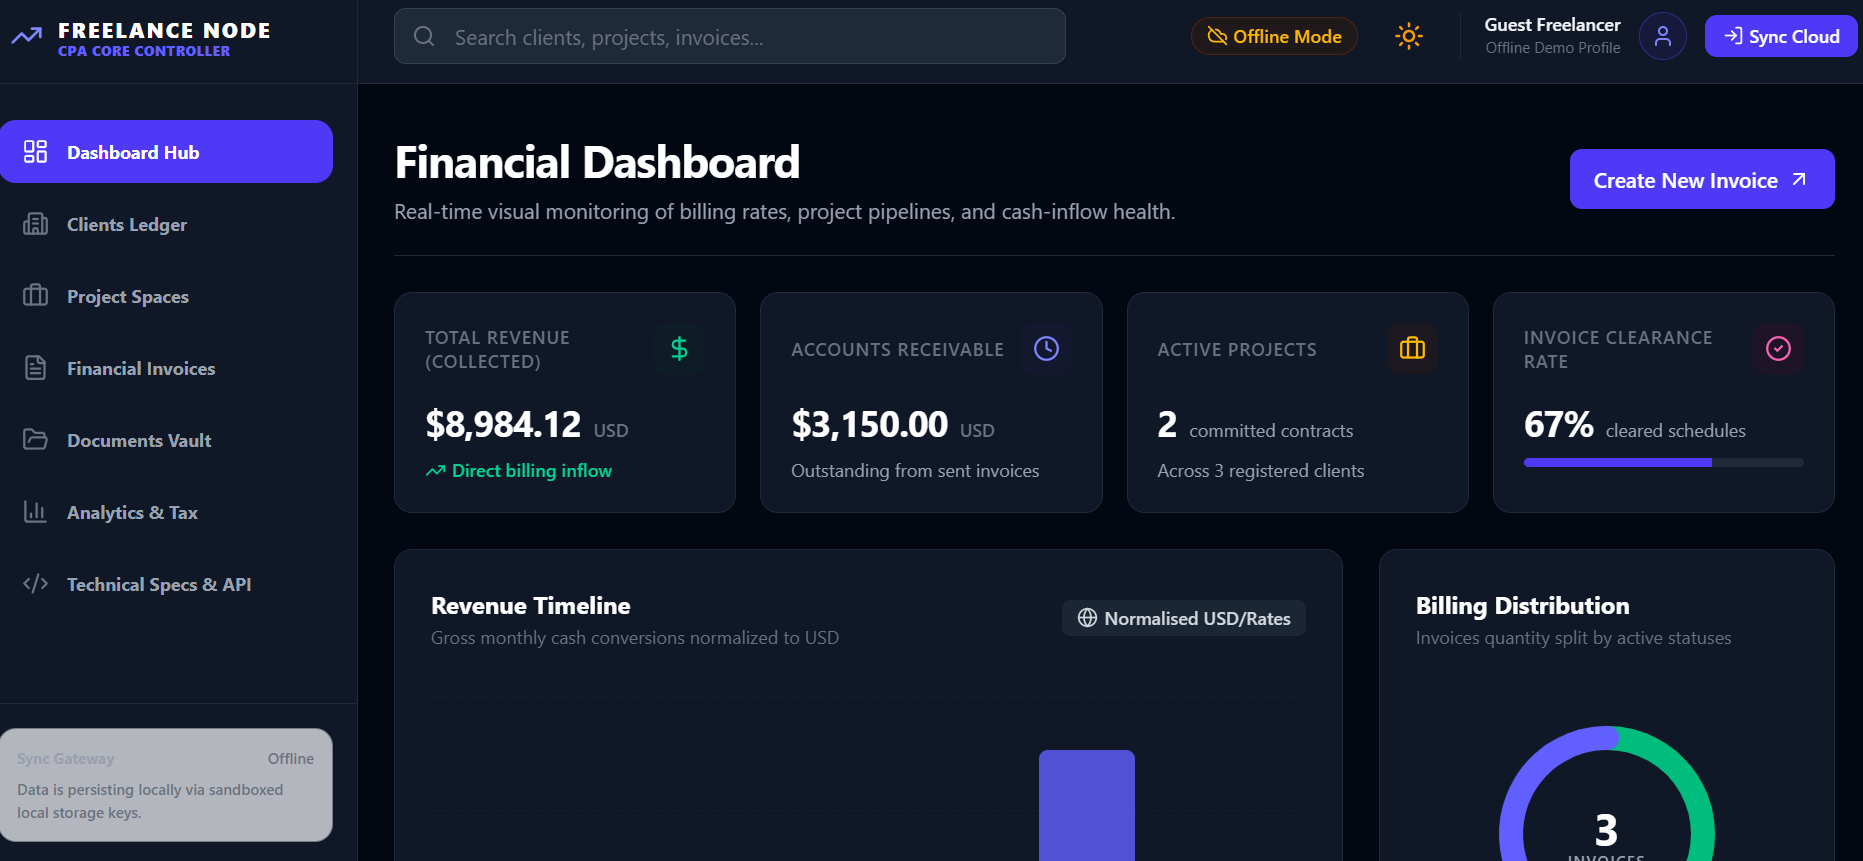
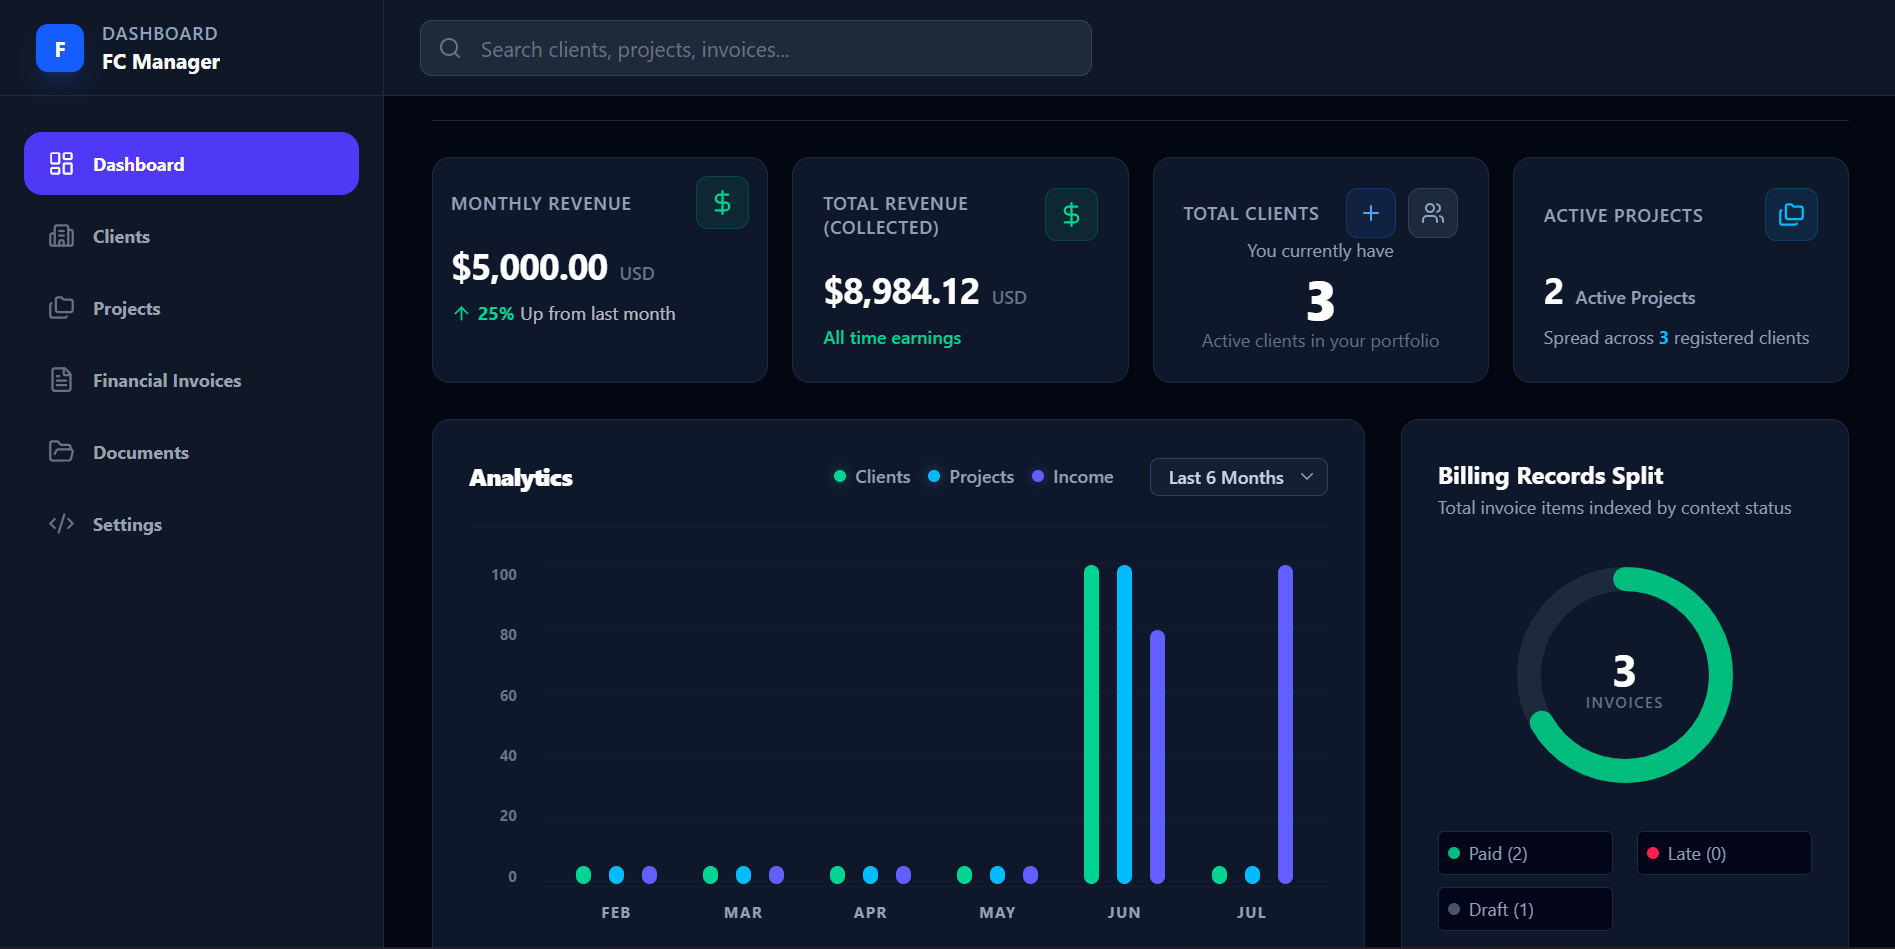
Removed redundant codes and update Client management project

diff --git a/src/data.ts b/src/data.ts
@@ -4,7 +4,6 @@ export const INITIAL_SKILLS: Skill[] = [
   {
     name: "HTML5",
     category: "language",
-    level: 95,
     unlocked: true,
     docUrl: "https://developer.mozilla.org/en-US/docs/Web/HTML",
     description: "Semantic structures, SEO optimization, and web accessibility (a11y) standards."
@@ -12,7 +11,6 @@ export const INITIAL_SKILLS: Skill[] = [
   {
     name: "CSS3 / Tailwind",
     category: "styling",
-    level: 90,
     unlocked: true,
     docUrl: "https://developer.mozilla.org/en-US/docs/Web/CSS",
     description: "Highly responsive layouts, clean Flexbox/Grid structures, variables, fluid typography, and premium micro-interactions."
@@ -20,7 +18,6 @@ export const INITIAL_SKILLS: Skill[] = [
   {
     name: "JavaScript",
     category: "language",
-    level: 85,
     unlocked: true,
     docUrl: "https://developer.mozilla.org/en-US/docs/Web/JavaScript",
     description: "Asynchronous workflows, ES6+ array manipulation, DOM modeling, closures, and modular engineering."
@@ -28,7 +25,6 @@ export const INITIAL_SKILLS: Skill[] = [
   {
     name: "React",
     category: "frontend",
-    level: 80,
     unlocked: true,
     docUrl: "https://react.dev/",
     description: "Declarative UI rendering, hooks lifecycle management, interactive local state flow, and modular components."
@@ -36,7 +32,6 @@ export const INITIAL_SKILLS: Skill[] = [
   {
     name: "TypeScript",
     category: "language",
-    level: 85,
     unlocked: true,
     docUrl: "https://www.typescriptlang.org/docs/",
     description: "Static typing, advanced interfaces, type-safe compiler checks, and robust autocompilation setups."
@@ -44,11 +39,11 @@ export const INITIAL_SKILLS: Skill[] = [
   {
     name: "Git & GitHub",
     category: "tools",
-    level: 80,
     unlocked: true,
     docUrl: "https://docs.github.com/en/get-started",
     description: "Version control branching pipelines, clean pull request reviews, and continuous Integration deployment workflows."
   },
+   /* 
   {
     name: 'Node.js',
     category: 'backend',
@@ -89,7 +84,7 @@ export const INITIAL_SKILLS: Skill[] = [
     docUrl: "https://www.freecodecamp.org/news/what-is-full-stack-development/",
     description: 'Architecting end-to-end applications by bridging frontend component layers with secure backend APIs.'
   }
-
+*/
 ];
 
 
@@ -99,7 +94,7 @@ export const PROJECTS: Project[] = [
     title: "Job Application Tracker",
     description: "This is is a polished sleek, local first app built to rescue people from spreadsheet hell during a job hunt.  Instead of jumping between messy bookmarks, notes apps, and Excel files, it gives you a clean command center to track your entire hiring lifecycle from initial submission to final offer.It saves everything directly to the browser via localStorage. That means the app is instantly ready to use without requiring a complex database setup, user accounts, or backend servers.",
 category: ["React", "TypeScript", "Tailwind CSS"],
-   tech: ["React", "TypeScript", "Vite", "Tailwind CSS", "Local Storage API", "Lucide Icons"],
+   tech: ["React", "TypeScript", "Javascript", "Vite", "Tailwind CSS", "Local Storage API", "Lucide Icons"],
     image: "/Project-images/JAJ_img.png",
     featured: true,
     typescriptReady: true,
@@ -108,16 +103,15 @@ category: ["React", "TypeScript", "Tailwind CSS"],
   },
   {
     id: "client-dashboard",
-    title: "Client Management Dashboard",
-    description: "A professional business operations manager tracking corporate client listings, projects, and revenue metrics.",
-    detailedDescription: "An administrative intelligence hub built to monitor high-level freelance workflows. Integrates core state tracking for managing ongoing customer accounts, open milestones, dynamic invoicing structures, payment collection records, and high-visibility analytics panels.",
-    category: ["React", "JavaScript"],
-    tech: ["React 19", "Tailwind CSS v4", "Lucide React Icons", "Reactive State Management"],
+    title: "Freelance Client Management",
+    description: "This Client Managment is a local first productivity and financial automation dashboard built to help freelancers and agencies streamline client management, track project milestones, and automate invoicing without any complex backend overhead. By utilizing browser storage, the application operates entirely client-side to deliver instant performance and total data privacy while handling multi-currency configurations, automated tax calculations, and secure JSON data exports. Ultimately, its purpose is to provide independent professionals with a fast, secure, and entirely free-to-run workspace that simplifies day-to-day business operations while keeping absolute data ownership in the hands of the user.", 
+     category: ["React", "JavaScript", "Tailwind", "Typescript", "Vite"],
+    tech: ["React 19", "Tailwind CSS v4", "Lucide React Icons", "Reactive State Management", "Vite", "Typsecript", "Javascript"],
     image: "/Project-images/Freelance-Client-Management-Dashboard.png",
     featured: true,
     typescriptReady: true,
-    liveUrl: "https://freelance-client-management-dashboa.vercel.app/",
-     githubUrl: "https://github.com/Chukwudi-Gideon/Freelance-Client-Management-Dashboard"
+    liveUrl: "https://fc-management-dashboard.vercel.app/",
+     githubUrl: "https://github.com/Chukwudi-Gideon/FC-Management-Dashboard"
   },
   {
     id: "artisan-marketplace",

diff --git a/src/components/Skills-Section.tsx b/src/components/Skills-Section.tsx
@@ -1,6 +1,6 @@
 import  { useState } from 'react';
 import type { Skill } from '../types';
-import { BookOpen,Lock } from 'lucide-react';
+import { BookOpen} from 'lucide-react';
 
 interface SkillsSectionProps {
   skills: Skill[];
@@ -83,15 +83,11 @@ export function SkillsSection({ skills }: SkillsSectionProps) {
           {/* List Skill Render */}
           <div className="grid grid-cols-1 sm:grid-cols-2 md:grid-cols-3 lg:grid-cols-4 gap-5">
             {filteredSkills.map((sk) => {
-                const isLocked = sk.level === 0;
+             
               return (
                 <div 
                   key={sk.name}
-                 className={`bg-white border rounded-xl p-5 border-slate-200/80 transition-all duration-300 dark:bg-slate-900 dark:border-slate-800/80 ${
-  isLocked
-    ? 'opacity-70 cursor-not-allowed filter grayscale-[30%]' 
-    : 'hover:border-indigo-300 shadow-sm hover:shadow-md hover:shadow-indigo-50/20 hover:translate-y-[-2px] dark:hover:border-indigo-500/50 dark:hover:shadow-indigo-950/10'
-}`}
+                 className="bg-white border rounded-xl p-5 border-slate-200/80 transition-all duration-300 dark:bg-slate-900 dark:border-slate-800/80"
                >
                   <div className="flex items-start justify-between">
                     <div>
@@ -114,13 +110,8 @@ export function SkillsSection({ skills }: SkillsSectionProps) {
                     {/* Percentage badge and help */}
                    <div>
   <div className="text-right text-xs font-mono font-bold text-slate-900 dark:text-slate-100 flex items-center gap-1">
-    <span>{sk.level}%</span>
-    {sk.unlocked === false ? (
-      <Lock 
-        className="w-3.5 h-3.5 text-slate-300 dark:text-slate-600 ml-1 inline-block " 
-        aria-label="Not yet started" 
-      />
-    ) : (
+ 
+  
       <button
         type="button"
         onClick={() => window.open(sk.docUrl, '_blank')}
@@ -130,7 +121,7 @@ export function SkillsSection({ skills }: SkillsSectionProps) {
       >
         <BookOpen className="w-3.5 h-3.5" />
       </button>
-    )}
+   
   </div>
 </div>
 
@@ -138,10 +129,7 @@ export function SkillsSection({ skills }: SkillsSectionProps) {
 
                   {/* Simple Fluid Progress line */}
                   <div className="w-full bg-slate-100 dark:bg-slate-800 h-1.5 rounded-full mt-4 overflow-hidden border border-slate-200/30 dark:border-slate-700/30">
-                    <div 
-                      className="h-full bg-slate-900 dark:bg-indigo-500 transition-all duration-1000"
-                      style={{ width: `${sk.level}%` }}
-                    ></div>
+                    
                   </div>
                 </div>
               );

diff --git a/src/types.ts b/src/types.ts
@@ -1,9 +1,8 @@
 export interface Skill {
   name: string;
   category: 'frontend' | 'backend' | 'styling' | 'language' | 'tools';
-  level: number; // 0 to 100
   unlocked: boolean;
-  docUrl: string; // official documentation URL
+  docUrl: string;
   description: string;
 }
 
